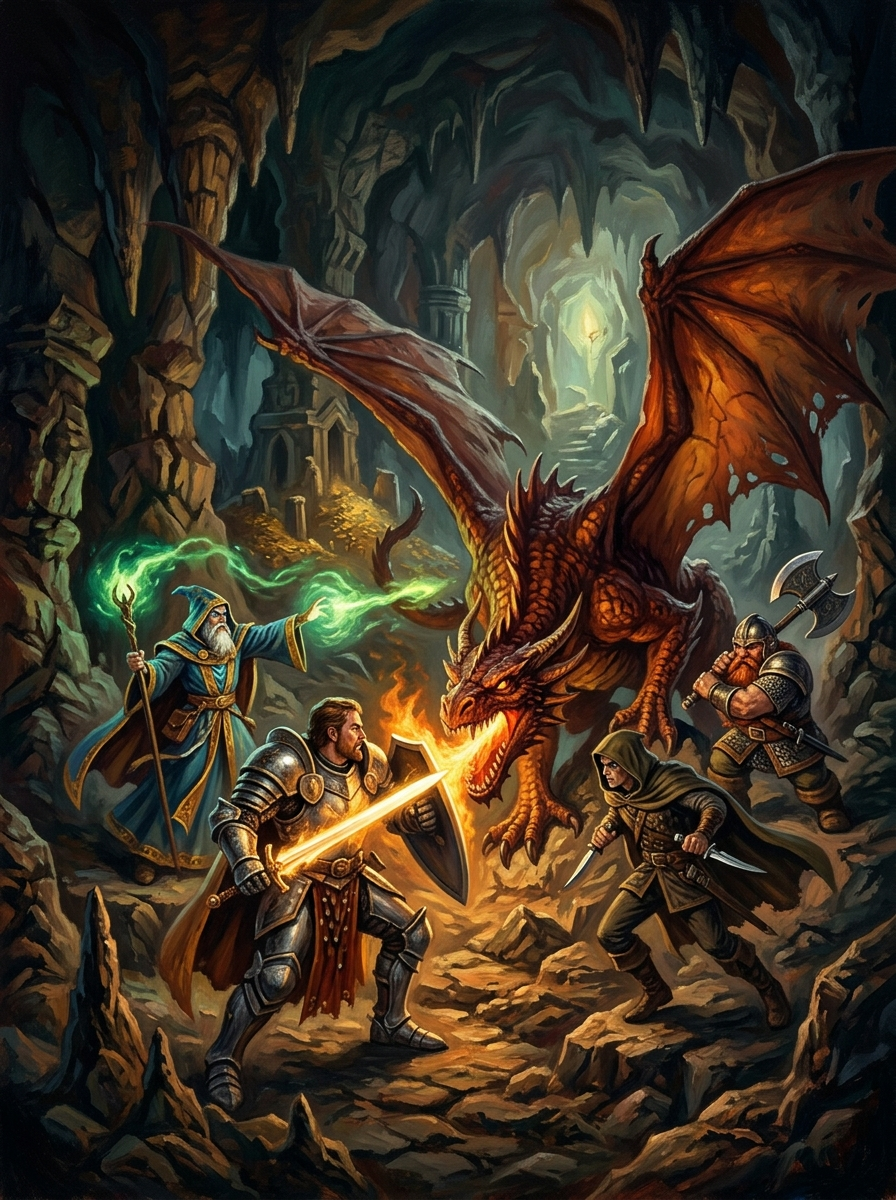
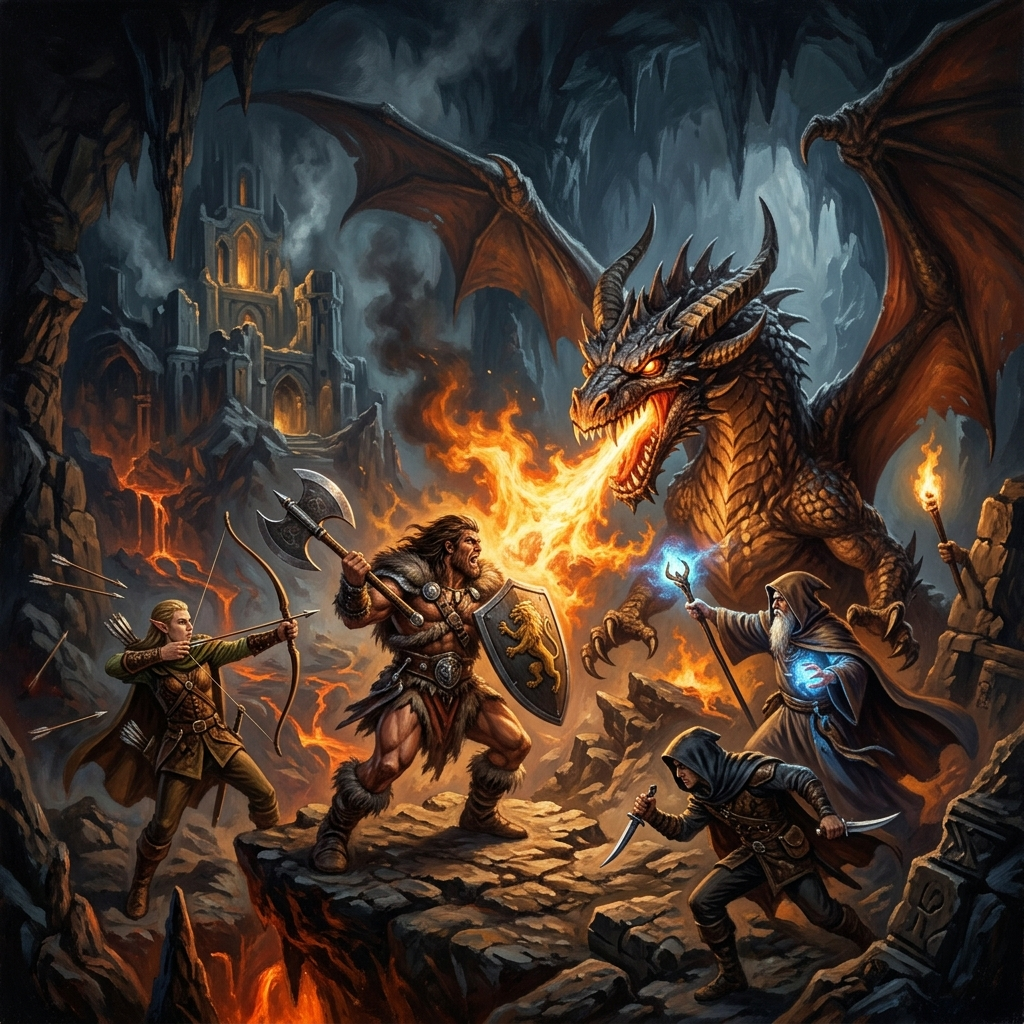
Add images for book 2 sections 127-128

diff --git a/src/data/book2.ts b/src/data/book2.ts
@@ -2308,6 +2308,7 @@ export const storyDataBook2: Record<string, Section> = {
   },
   "127": {
     "id": "127",
+    "image": "/images/sections/book2_sect127.jpg",
     "text": [
       "Vous vous éveillez à l'aube, au son de la pluie qui tombe à verse sur les pavés de la rue. Il y a maintenant six jours que vous avez quitté Holmgard et il vous faut prendre un repas, sinon vous perdrez 3 points d'ENDURANCE.",
       "Vous rassemblez ensuite vos affaires et vous quittez la pièce. Tandis que vous descendez l'escalier branlant, vous apercevez l'aubergiste qui est en train de nettoyer le carrelage à l'aide d'une serpillière.",
@@ -2326,6 +2327,7 @@ export const storyDataBook2: Record<string, Section> = {
   },
   "128": {
     "id": "128",
+    "image": "/images/sections/book2_sect128.jpg",
     "text": [
       "Une lueur dorée parcourt la lame du Glaive lorsque vous le levez au- dessus de votre tête pour faire face à l'ennemi. Vous êtes attaqué par six ZOMBIES terrifiants que vous devez combattre en les considérant comme un seul et même adversaire.",
       "LES ZOMBIES HABILETÉ : 13 ENDURANCE : 19 Ce sont des morts vivants et la puissance du Glaive de Sommer vous permet donc de multiplier par deux tous les point d'ENDURANCE qu'ils perdront au cours du combat.",
